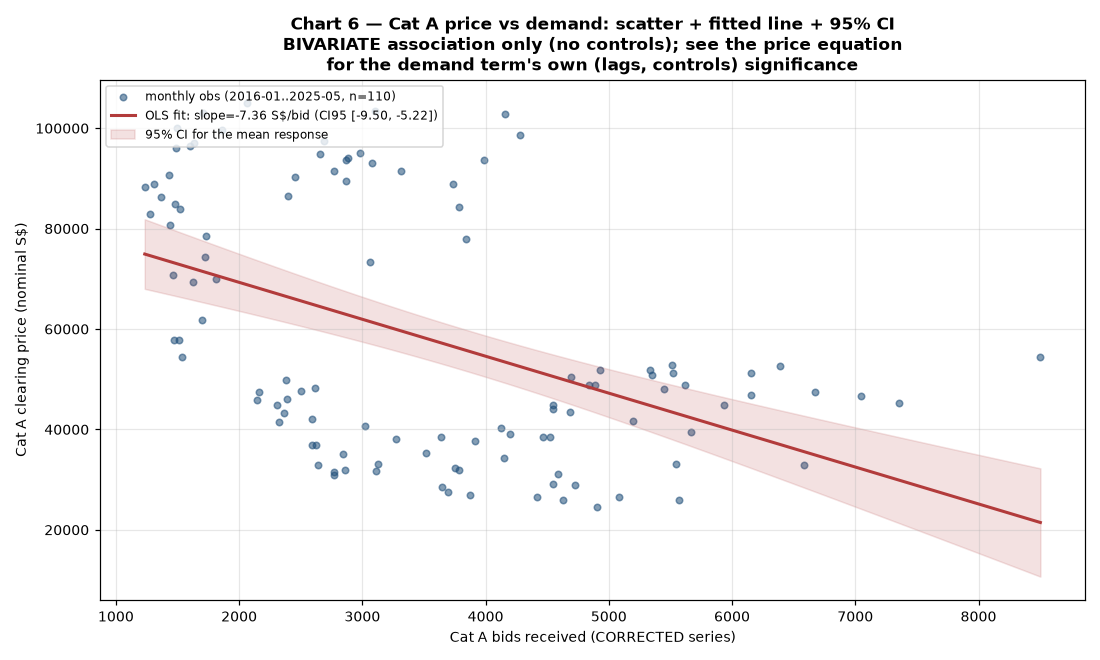
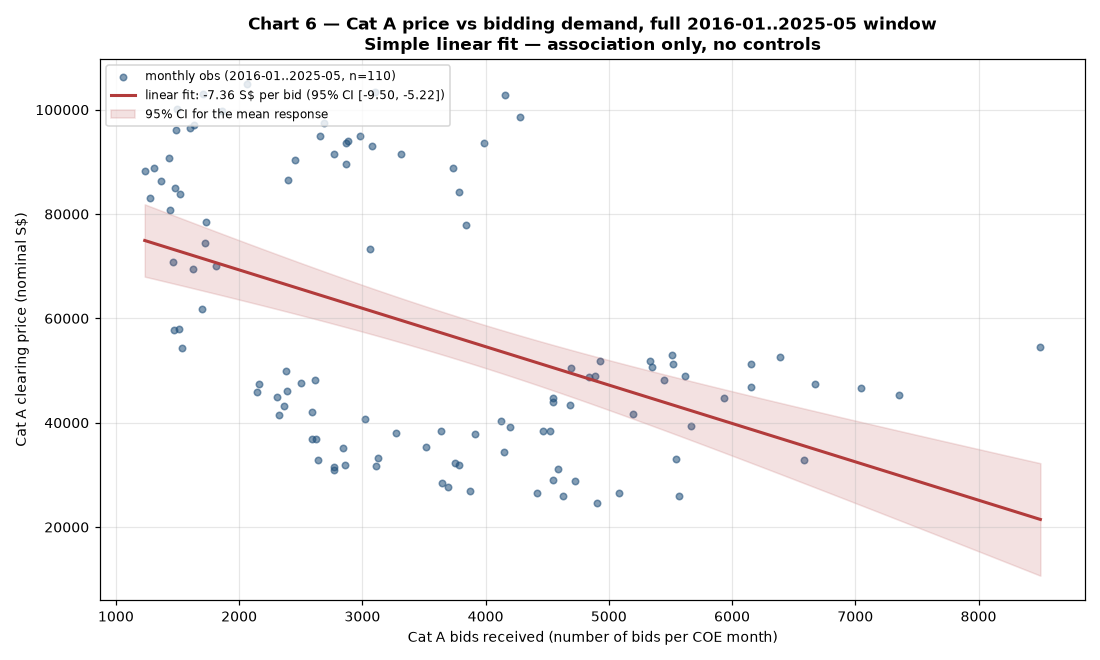
Figure 6: fix axis label, title, and objective fit description
- x-axis: drop 'CORRECTED series' -> 'number of bids per COE month'
  (also stripped from the fit CSV metadata note, keeping the
  correction statement single-occurrence).
- title: drop the unclear 'see the price equation ... significance'
  line; keep the plain 'association only, no controls' caveat.
- legend: report the actual fit (-7.36 S$ per bid, 95% CI) instead
  of 'OLS fit: slope=...'.
- README caption: replace the subjective 'nearly flat' with the real
  fit - the level relationship is negative (about -S$7.4k per
  1,000 bids; 95% CI -S$9.5k..-S$5.2k; p < 0.001; level r = -0.47),
  i.e. the opposite of the hypothesized mechanism, while
  month-to-month changes correlate only r = +0.11; section 4.5 prose
  updated to match.

diff --git a/src/13_charts.py b/src/13_charts.py
@@ -424,9 +424,9 @@ def chart06() -> None:
             {
                 "item": "note",
                 "value": (
-                    "BIVARIATE descriptive fit (price ~ bids_received) on the CORRECTED "
-                    "series, 110 COE months, HC1 SEs. NOT a causal exhibit; no regime "
-                    "dummies / trend / controls. Association only."
+                    "BIVARIATE descriptive fit (price ~ bids_received), 110 COE months, "
+                    "HC1 SEs. NOT a causal exhibit; no regime dummies / trend / "
+                    "controls. Association only."
                 ),
             },
         ]
@@ -440,16 +440,15 @@ def chart06() -> None:
     ax.scatter(df["x"], df["price"], s=18, alpha=0.55, color="#1f4e79",
                label="monthly obs (2016-01..2025-05, n=110)")
     ax.plot(grid, mean, color="#b23b3b", lw=2,
-            label=f"OLS fit: slope={res.params['x']:.2f} S$/bid "
-                  f"(CI95 [{res.conf_int().loc['x',0]:.2f}, {res.conf_int().loc['x',1]:.2f}])")
+            label=f"linear fit: {res.params['x']:.2f} S$ per bid "
+                  f"(95% CI [{res.conf_int().loc['x',0]:.2f}, {res.conf_int().loc['x',1]:.2f}])")
     ax.fill_between(grid, lo, hi, color="#b23b3b", alpha=0.15,
                     label="95% CI for the mean response")
-    ax.set_xlabel("Cat A bids received (CORRECTED series)")
+    ax.set_xlabel("Cat A bids received (number of bids per COE month)")
     ax.set_ylabel("Cat A clearing price (nominal S$)")
     ax.set_title(
-        "Chart 6 — Cat A price vs demand: scatter + fitted line + 95% CI\n"
-        "BIVARIATE association only (no controls); see the price equation\n"
-        "for the demand term's own (lags, controls) significance",
+        "Chart 6 — Cat A price vs bidding demand, full 2016-01..2025-05 window\n"
+        "Simple linear fit — association only, no controls",
     )
     ax.legend(loc="upper left", fontsize=8)
     fig.tight_layout()

diff --git a/README.md b/README.md
@@ -227,14 +227,23 @@ of the maximum rebate from S$45k to S$40k; adoption kept rising after it.*
 ### 4.5. Prices and bidding demand barely track each other
 
 A basic requirement for "more bidding → higher prices" is that price and
-bids actually move together. Across the decade they mostly don't (Figure 6).
+bids actually move together. Across the decade they don't — in fact the
+decade-level relationship runs the wrong way (months with more bids had
+*lower* prices, Figure 6), and month to month the two series barely
+track each other.
 
 **Figure 6.** Each dot is a month: Category A price vs bids received, with
 the best-fit line and its uncertainty band.
 
 ![Each dot is a month: Category A price vs bids received, with the best-fit line and uncertainty band](charts/06_scatter_fit_ci.png)
 
-*The fit line is nearly flat — more bids did not reliably mean higher prices.*
+*Simple linear fit (association only, no controls): the slope is not
+flat — it is negative. Months with more bids had lower prices (about
+−S$7.4k per additional 1,000 bids; 95% CI −S$9.5k to −S$5.2k;
+p < 0.001; level correlation r = −0.47) — the opposite of what the
+"more bids → higher prices" mechanism predicts. Month to month the two
+series barely track each other (correlation of changes r = +0.11):
+more bids did not reliably translate into higher prices.*
 
 ### 4.6. The "rebate → more bids → higher price" chain is broken
 
